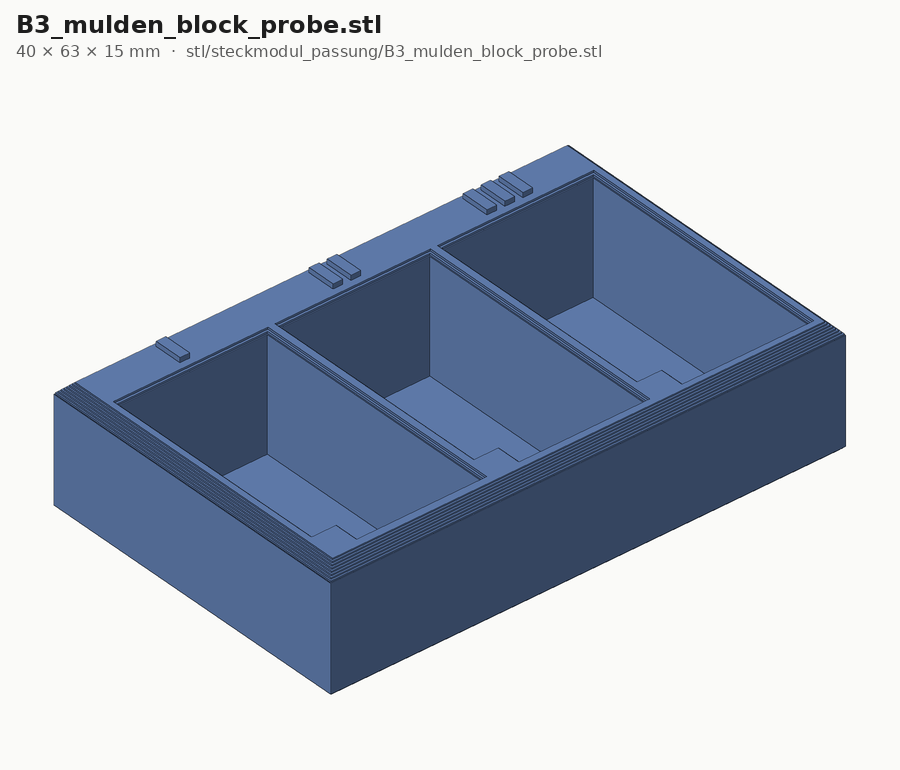
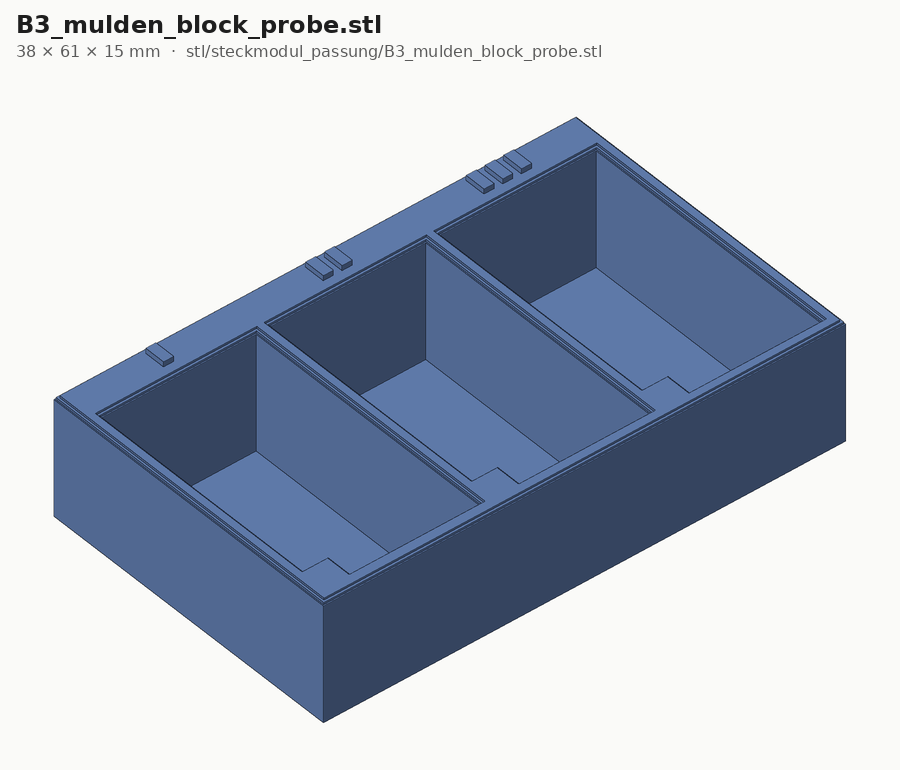
Mulden-Block B3 mit schmalerem Rahmen (Rand 1,6, Fase oben 0,5, Kennung als 2,5 mm lange Balken: 37,7 × 61,3 statt 40,4 × 63,1 mm, 41 statt 48 min), B3b 37,7 × 41,5 mm; Kassetten behalten ihre Fasen (Kontrolle gegen das Original); Prüfbericht, README, ZIP, Planseite neu
Claude-Session: https://claude.ai/code/session_01PTC1jaQLd3Lcw8HPBoA2Rg

diff --git a/plug/filament/plan.html b/plug/filament/plan.html
@@ -309,9 +309,9 @@ ul.tight { margin: 0; padding-left: 18px; display: flex; flex-direction: column;
   <div class="box" id="erzeugt"><h3>Stand 19.10.: beide Varianten sind erzeugt (STL in <code>stl/steckmodul_passung/</code>, ZIP je Variante)</h3>
     <div class="tw"><table><thead><tr><th>Variante</th><th>Teile</th><th class="n">Druckzeit grob</th><th>Vorteil</th></tr></thead><tbody>
       <tr><td><b>A</b> vorhandene Gebäude als Lehre</td><td>A1 Mulden-Block Institut (grau, 92 × 99, 3 Mulden 0,10 / 0,15 / 0,20) + K1 bis K3 Kassetten (beige)</td><td class="n">174 min</td><td>prüft am echten Umriss und am echten Gebäude, nichts Neues in Beige nötig</td></tr>
-      <tr><td><b>B</b> eigener kompakter Probedruck</td><td>B1 Probefuß mit Fase 4,0 (beige, 31 × 18 × 20, Kodierecke, Schacht V1RS) + B3 Mulden-Block (grau, 44 × 66) + K1 bis K3</td><td class="n">126 min</td><td>kurzer Block, funktioniert für jede neue Farbe, prüft die Fase 4,0 gleich mit (ohne Vergleichsfuß mit 2,0)</td></tr>
+      <tr><td><b>B</b> eigener kompakter Probedruck</td><td>B1 Probefuß mit Fase 4,0 (beige, 31 × 18 × 20, Kodierecke, Schacht V1RS) + B3 Mulden-Block (grau, 44 × 66) + K1 bis K3</td><td class="n">119 min</td><td>kurzer Block, funktioniert für jede neue Farbe, prüft die Fase 4,0 gleich mit (ohne Vergleichsfuß mit 2,0)</td></tr>
     </tbody></table></div>
-    <p class="note">Der Mulden-Block allein ist in B kürzer (48 statt 125 min), aber der Fuß kostet 29 min extra. Die Summe liegt nah beieinander; B ist unabhängig von den vorhandenen Gebäuden. Zeiten nach dem Muster der r8-Schätzung (dort 47 min geschätzt, 55 min gedruckt), mal 1,2.</p>
+    <p class="note">Der Mulden-Block allein ist in B kürzer (41 statt 125 min), aber der Fuß kostet 29 min extra. Die Summe liegt nah beieinander; B ist unabhängig von den vorhandenen Gebäuden. Zeiten nach dem Muster der r8-Schätzung (dort 47 min geschätzt, 55 min gedruckt), mal 1,2.</p>
     <p class="note"><b>Fase 4,0:</b> Die alten Gebäude passen weiter in dieselbe Mulde, denn die Fase sitzt am Gebäude und nicht an der Mulde. In schmalen Gebäuden entfällt sie aber dort, wo der Schacht näher am Rand liegt als Fase plus Wand (wie schon beim Paulinum). B1 hat 4,0; einen Vergleich mit 2,0 gibt es nur über die vorhandenen Gebäude in Variante A.</p>
     <p class="note"><b>Schachttiefe:</b> Die Schachtdecke liegt 0,30 (Code) bzw. 0,35 (Wunsch) über dem Unterbau der Kassette. Die Kassette wird bis zur Fußunterkante eingepresst, die Decke ist kein Anschlag. Zu wenig Tiefe ließ sie nach r3 etwa 0,2 mm unten herausstehen. Dann sitzt die Buchse 0,2 mm höher und die Einstecktiefe E sinkt von 5,28 gegen die Grenze 5,1. Mehr Tiefe schafft Luft, damit die Kassette auch bei Aufmaß ganz hineinkommt.</p>
   </div>

diff --git a/plug/filament/build.py b/plug/filament/build.py
@@ -80,15 +80,15 @@ def probefuss(fase):
 
 
 # ---- Mulden-Block
-def mulden_block(poly, spiele, wand=2.4, rand=3.0):
+def mulden_block(poly, spiele, wand=2.4, rand=3.0, top_ch=None):
     """Platte mit je einer Mulde je Spiel (Boden 0,4, Fase oben 0,5, Plattenkante unten 0,5 und oben 1,5), erhabene Balken als Kennung (1 bis n)."""
     rand_l = 2.0 + len(spiele) * BAR_W + (len(spiele) - 1) * BAR_GAP + 1.0 + 1.0
     if wand < 2.0:                         # kompakt: Kennung als kurze Querbalken (3,5 lang) übereinander statt nebeneinander
-        rand_l = 1.8 + 3.5 + 1.2
+        rand_l = 0.8 + 2.5 + 1.4
     b = FG.block(poly, spiele, wand=wand, rand=rand, rand_l=rand_l)
     T = FG.PLATTE_T
     outline = b["platte"]
-    plate = BC.slab_ch(outline, 0.0, T, P.EF_CH_T) ^ C.top_edge(outline, T, P.PLATE_TOP_CH_T)
+    plate = BC.slab_ch(outline, 0.0, T, P.EF_CH_T) ^ C.top_edge(outline, T, P.PLATE_TOP_CH_T if top_ch is None else top_ch)
     ch = P.MULDE_CH_T
     n = BC.n_layers(ch)
     dz = ch / n
@@ -104,7 +104,7 @@ def mulden_block(poly, spiele, wand=2.4, rand=3.0):
         for j in range(i + 1):
             if wand < 2.0:
                 y0 = yc - ((i + 1) * BAR_W + i * BAR_GAP) / 2 + j * (BAR_W + BAR_GAP)
-                bars.append(box(1.8, 5.3, y0, y0 + BAR_W, T - 0.01, T + BAR_H))
+                bars.append(box(0.8, 3.3, y0, y0 + BAR_W, T - 0.01, T + BAR_H))
             else:
                 x0 = 2.0 + j * (BAR_W + BAR_GAP)
                 bars.append(box(x0, x0 + BAR_W, yc - BAR_L / 2, yc + BAR_L / 2, T - 0.01, T + BAR_H))
@@ -172,8 +172,8 @@ def main():
         teile["K%d_kassette_V1RS_%d" % (i + 1, round(s * 100))] = kassette(s)
     f4, h4 = probefuss(4.0)
     teile["B1_probefuss_fase4"] = f4
-    plate_b, bb = mulden_block(probe_outline(), MULDEN_SPIEL, wand=1.6, rand=2.5)
-    plate_b2, bb2 = mulden_block(probe_outline(), MULDEN_SPIEL[1:], wand=1.6, rand=2.5)
+    plate_b, bb = mulden_block(probe_outline(), MULDEN_SPIEL, wand=1.6, rand=1.6, top_ch=0.5)
+    plate_b2, bb2 = mulden_block(probe_outline(), MULDEN_SPIEL[1:], wand=1.6, rand=1.6, top_ch=0.5)
     teile["B3b_mulden_block_probe_2"] = plate_b2
     teile["B3_mulden_block_probe"] = plate_b
 
